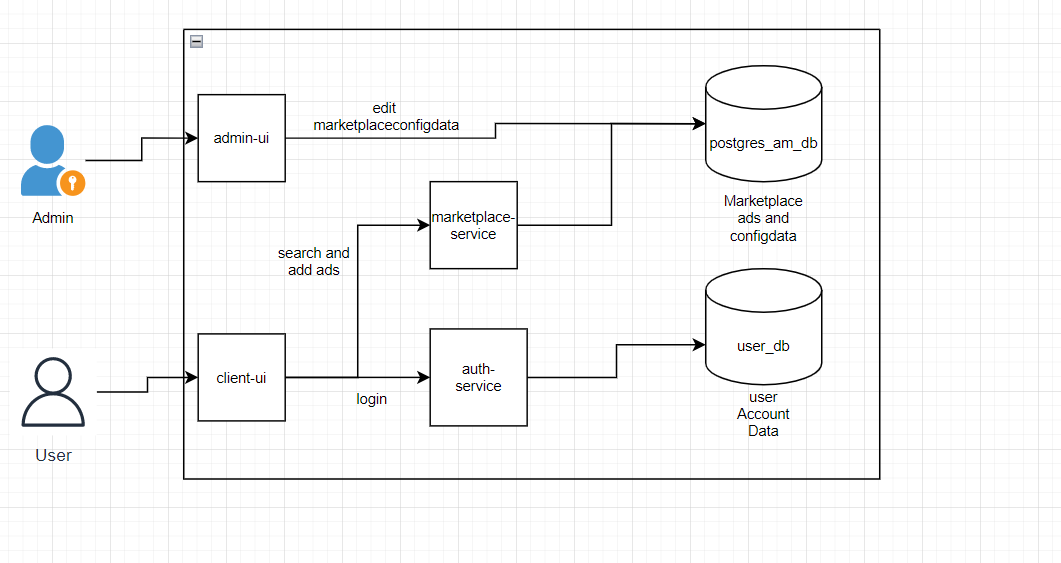
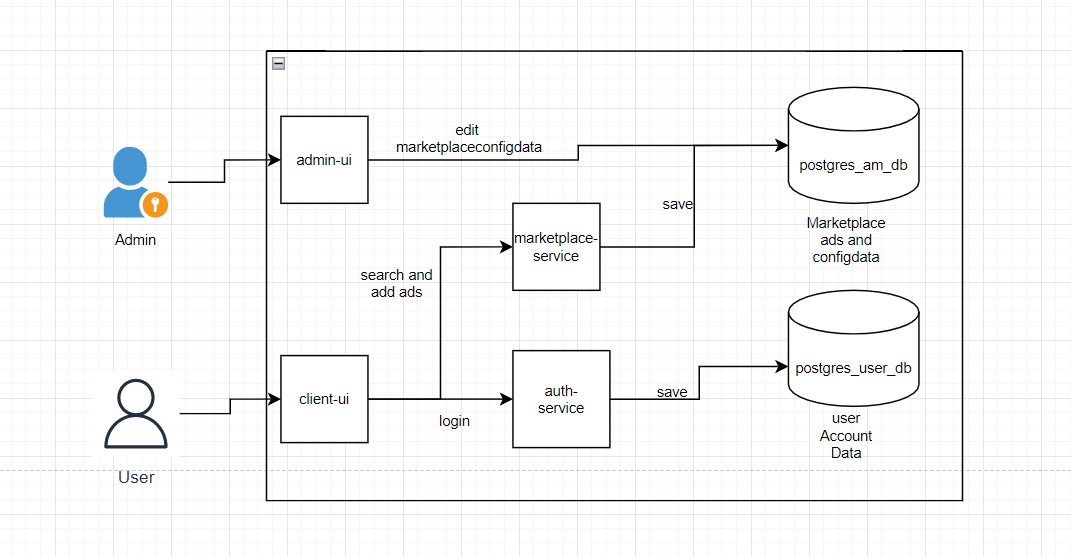
added explanation to the am-m-architechture

diff --git a/Architecture/README.md b/Architecture/README.md
@@ -88,6 +88,18 @@ Contained Building Blocks
 
 :   *\<Description of contained building block (black boxes)\>*
 
+client-ui : allows the user to interact with the marketplace App. He can search , add adds ans also make a login.
+
+admin-ui: This modules configures all dynamic parameter of the marketplace.
+
+marketplace-service : This module serves the Rest-Services for the UI. 
+
+auth-service: This module serves the authentication of the users.
+
+postgres_user_db: This Postgres database is used to store user and Accountdata.
+
+postgres_am_db: This Database is used to store marketpllace ads and configdata. 
+
 Important Interfaces
 
 :   *\<Description of important interfaces\>*
